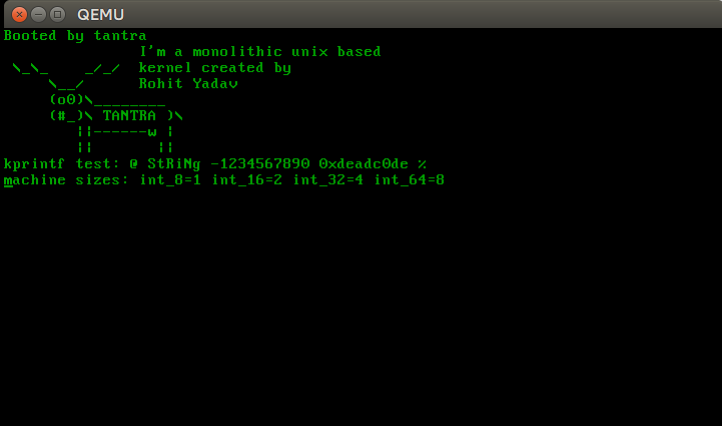
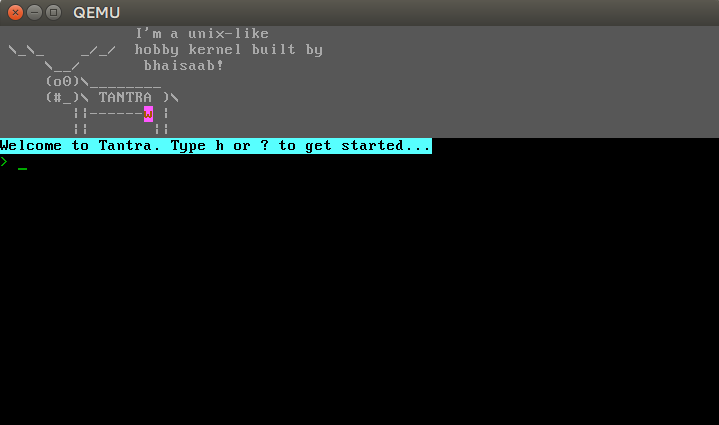
docs: update screenshot and readme

diff --git a/README.md b/README.md
@@ -2,14 +2,12 @@
 
 <pre>
  \_\_    _/_/
-     \__/
-     (o0)\________
+     \__/           Tantra is hobby unix-like kernel.
+     (o0)\________  The __sanskrit__ word `tantra` (तंत्र) means system.
      (#_)\ tantra )\
         ||------w |
         ||       ||
 </pre>
-
-Tantra is hobby unix-like kernel. The __sanskrit__ word `tantra` (तंत्र) means system.
 
 ![Tantra](docs/screenshot.png)
 
@@ -27,9 +25,3 @@ Available build profiles:
 Use bochs to step into instructions and see registers in action:
 
     make run
-
-    > In bochs:
-    > lb 0x0010000c  # This is our kernel's loader address
-    > c
-    > r  # Bochs should break at the above breakpoint, prints registers
-         # You should find 0xBADA55 in the rax/eax register :)
